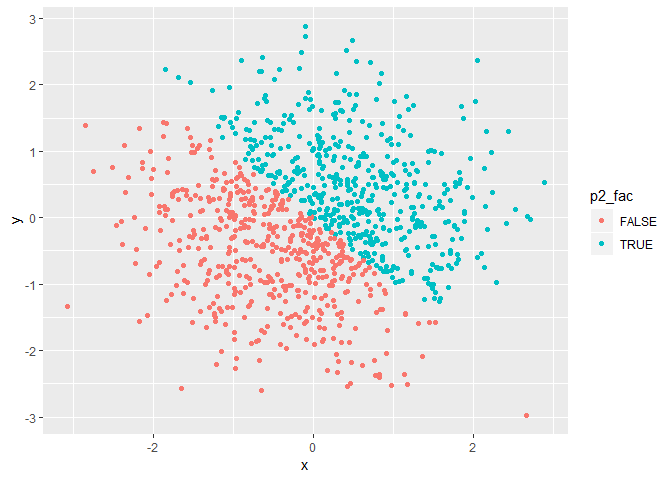
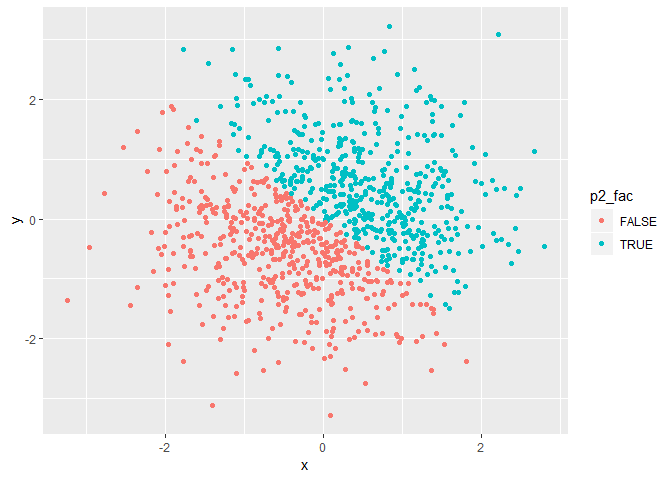
Avoid 'folder not found' error when creating plot pdf

diff --git a/P8105_hw1_jy2947.md b/P8105_hw1_jy2947.md
@@ -19,13 +19,13 @@ dataframe = tibble(
 mean(dataframe$sample)
 ```
 
-    ## [1] 2.514928
+    ## [1] 1.814013
 
 ``` r
 mean(dataframe$morethan2)
 ```
 
-    ## [1] 0.6
+    ## [1] 0.5
 
 ``` r
 mean(dataframe$p1_cha)
@@ -106,7 +106,7 @@ norm_distri = tibble(
 )
 ```
 
-The data frame has 1000 rows and 5 columns. The mean of x is -0.0182009. The median of x is 0.0147601. The proportion of cases for which the logical vector is `TRUE` is 0.495.
+The data frame has 1000 rows and 5 columns. The mean of x is 0.0139859. The median of x is 0.0562096. The proportion of cases for which the logical vector is `TRUE` is 0.497.
 
 The following code chunk creates the scatter plot of `x_plus_y_more_than0` in `norm_distri` and saves the plot in a pdf file.
 
@@ -117,6 +117,7 @@ ggplot(norm_distri, aes(x = x, y = y, color = x_plus_y_more_than0)) + geom_point
 ![](P8105_hw1_jy2947_files/figure-markdown_github/scatter_plot_logical-1.png)
 
 ``` r
+dir.create('./plot')
 ggsave("hw1_p2_scatter_plot.pdf", path = './plot')
 ```
 
